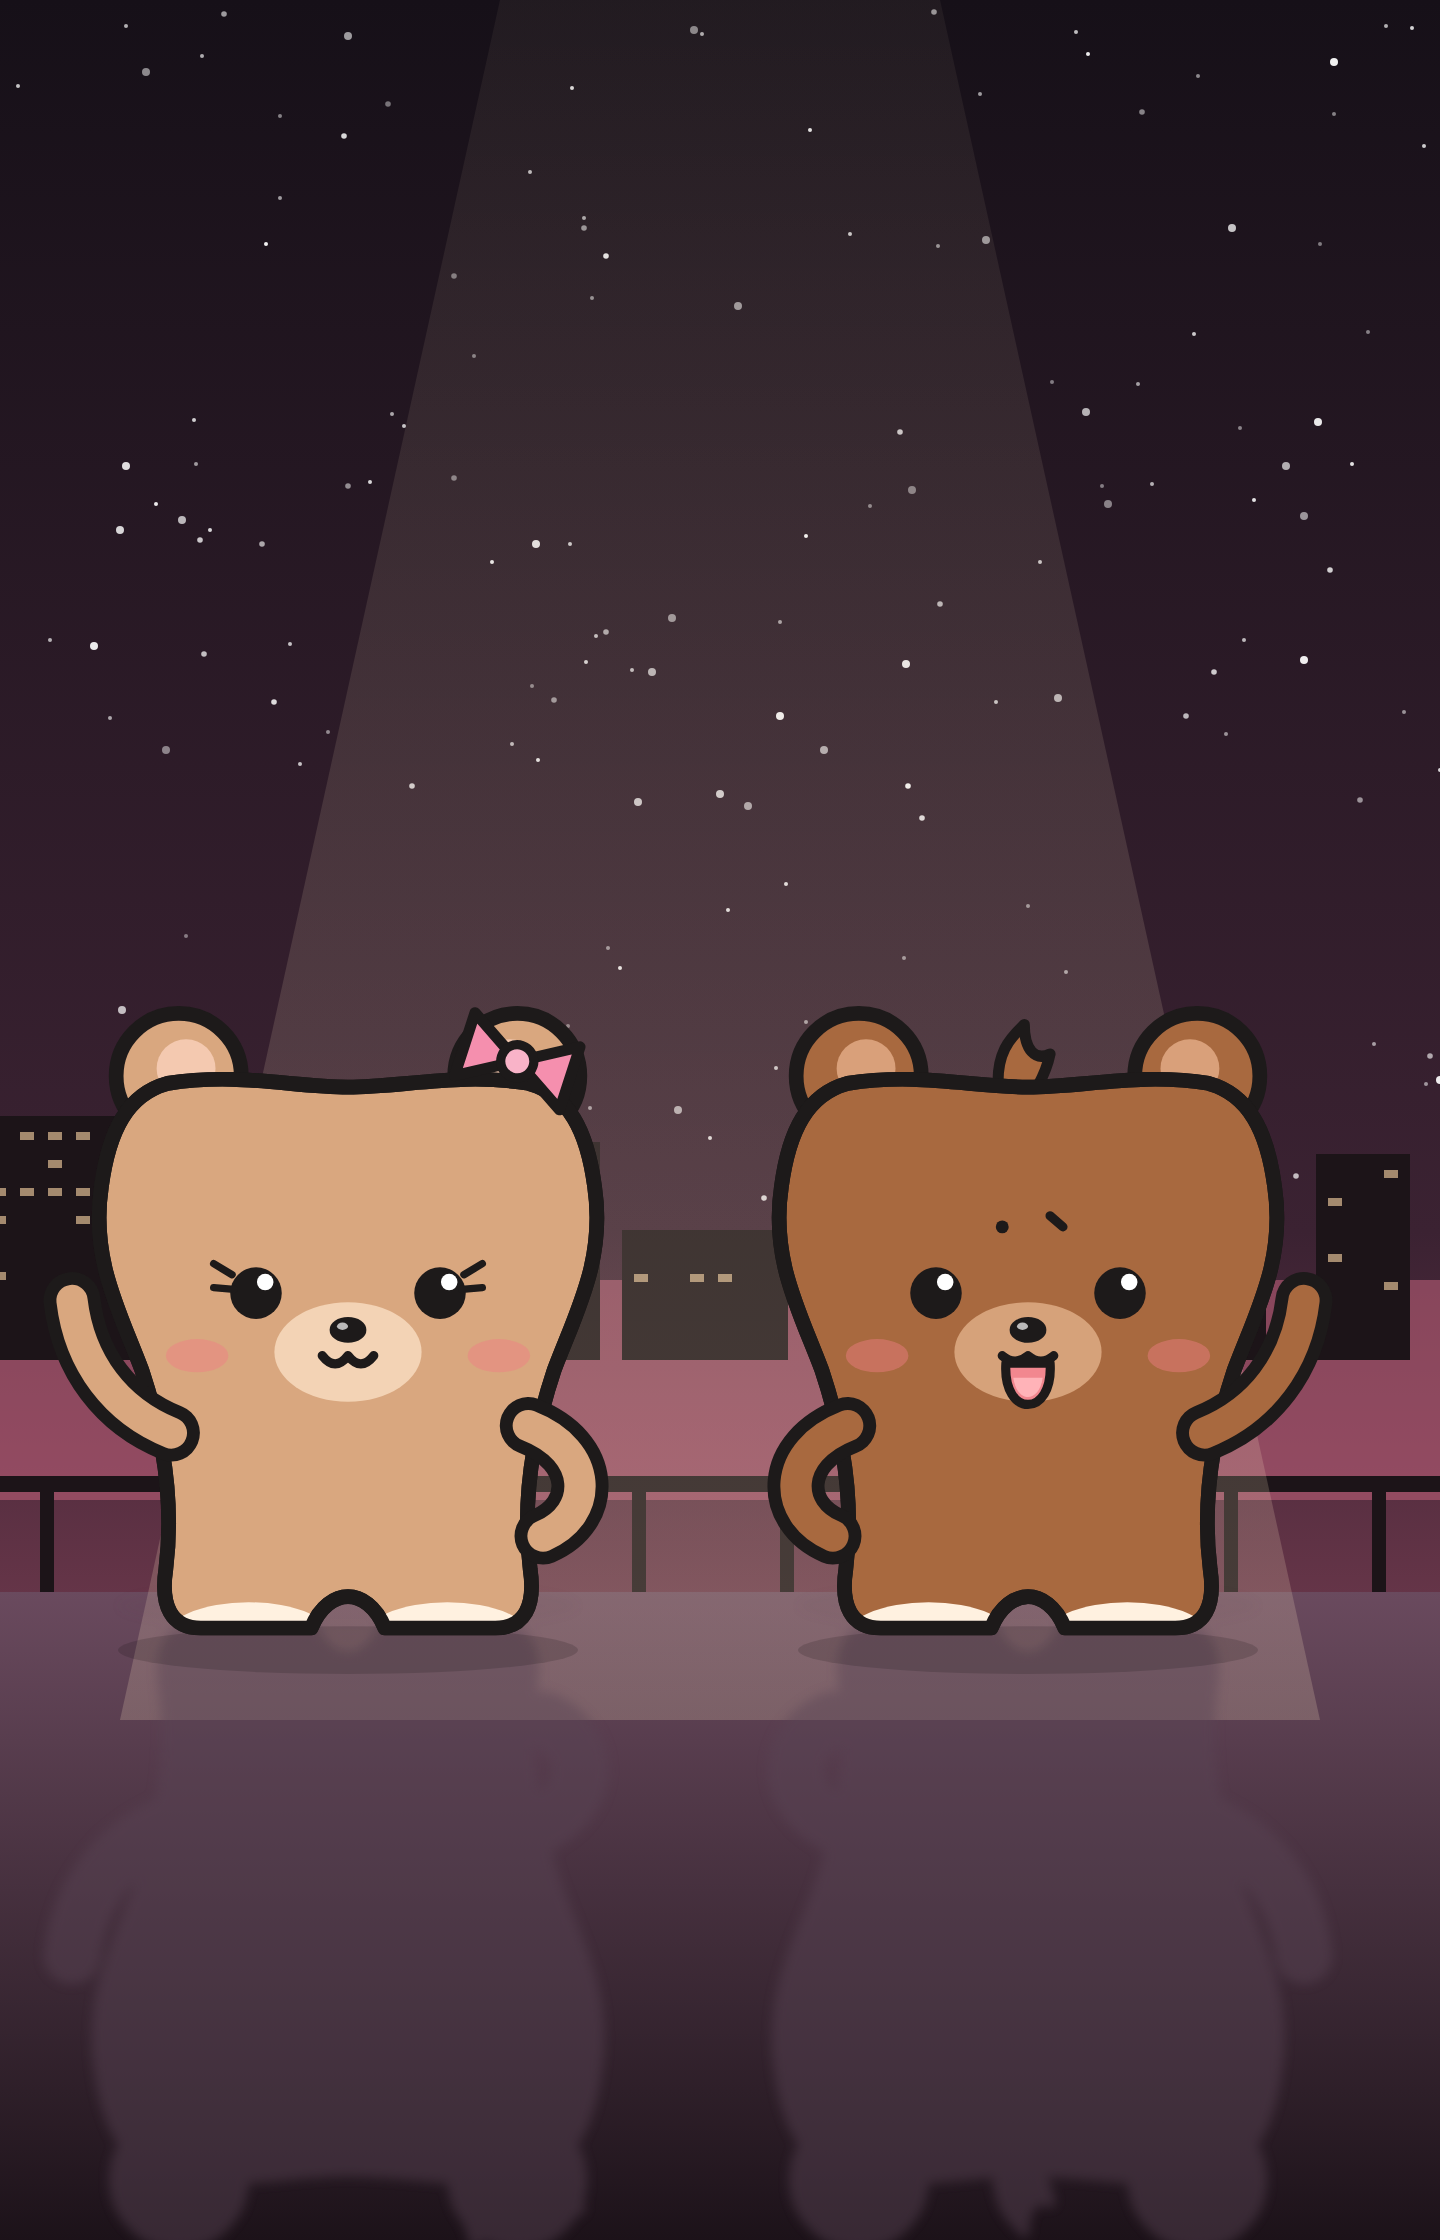
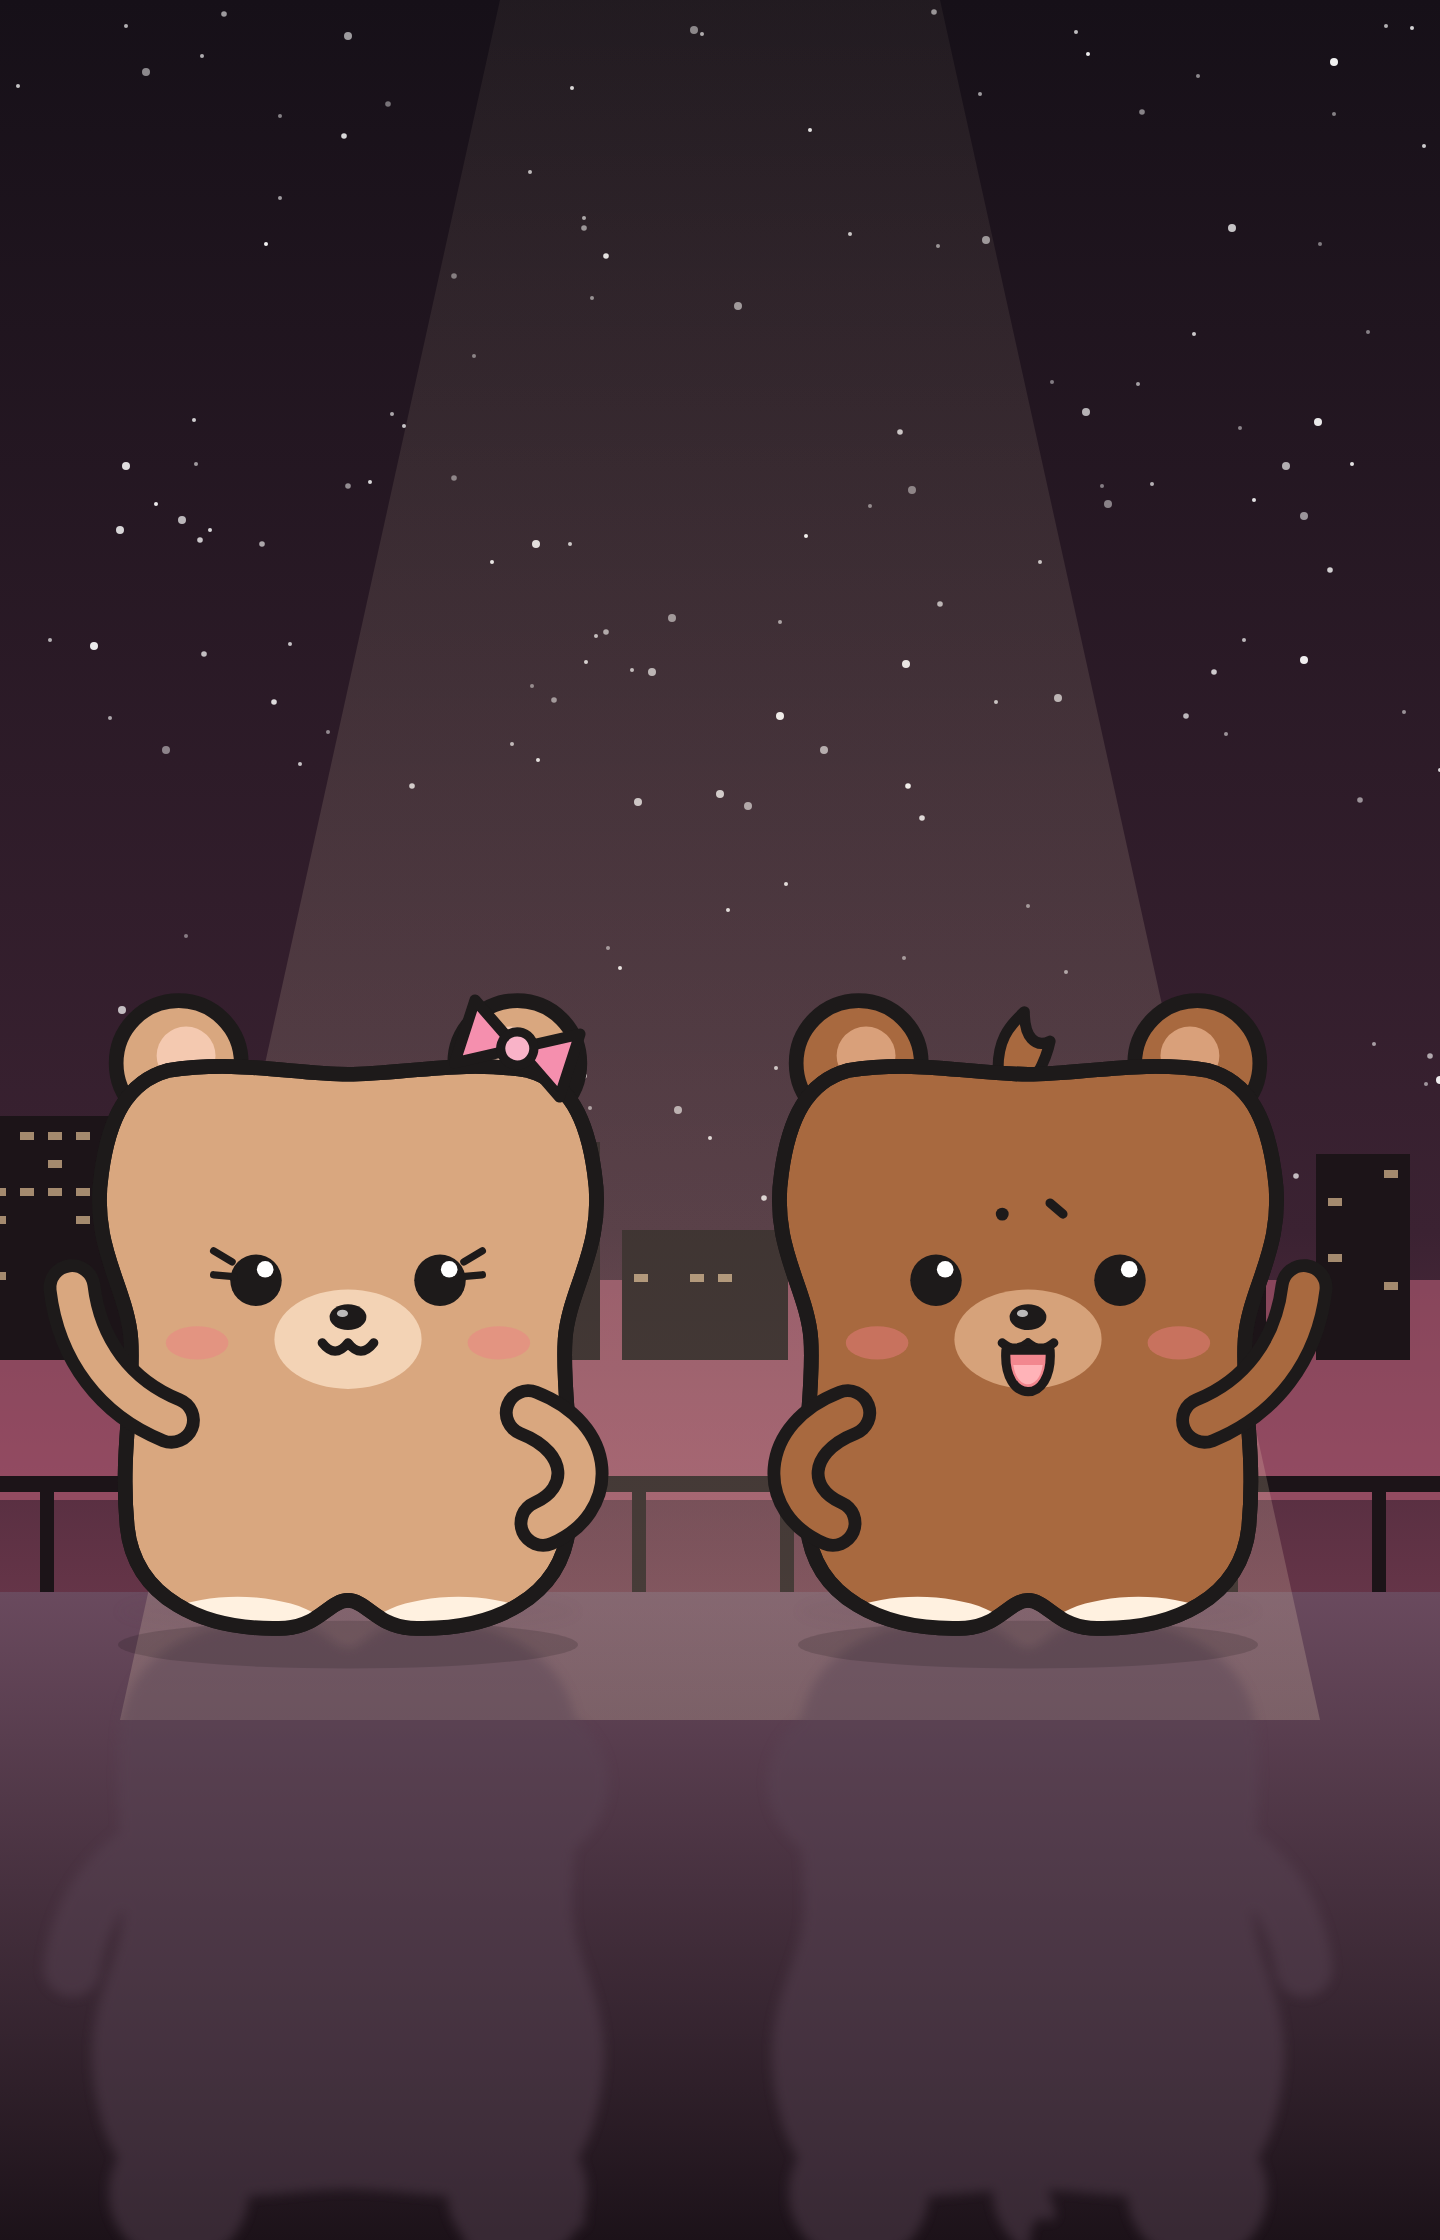
Round the bottom of the cat and bear bodies
Claude-Session: https://claude.ai/code/session_01WopMkcLvWqfaJwoxBBe3rR

diff --git a/characters/cat.py b/characters/cat.py
@@ -41,14 +41,12 @@ def noodle(d, fill, w=17):
 
 
 # One blob for head + body; ear tips at the top corners, two foot bumps at the bottom.
-BODY = ("M120,440 C104,440 98,428 101,408 C106,368 98,330 88,300 C76,268 62,240 68,206 "
+BODY = ("M200,432 C190,432 184,446 166,447 C120,449 84,430 80,392 C76,350 84,320 82,290 C80,262 62,240 68,206 "
         "C72,176 82,146 96,116 C114,138 130,154 152,160 C182,166 222,166 250,158 "
-        "C272,152 288,136 304,114 C318,146 328,176 332,206 C338,240 324,268 312,300 "
-        "C302,330 294,368 299,408 C302,428 296,440 280,440 "
-        "L220,440 C215,428 207,423 200,423 C193,423 185,428 180,440 Z")
+        "C272,152 288,136 304,114 C318,146 328,176 332,206 C338,240 320,262 318,290 C316,320 324,350 320,392 C316,430 280,449 234,447 C216,446 210,432 200,432 Z")
 
 layers = [
-    L("shadow", '<ellipse cx="200" cy="452" rx="125" ry="13" fill="#000" opacity=".14"/>'),
+    L("shadow", '<ellipse cx="200" cy="456" rx="125" ry="13" fill="#000" opacity=".14"/>'),
     L("tail", noodle("M292,410 C352,410 372,350 352,300 C342,276 360,258 376,270", FUR)
               + f'<path d="M352,300 C342,276 360,258 376,270" fill="none" stroke="{FUR_DK}" '
                 f'stroke-width="17" stroke-linecap="round"/>', (292, 405)),
@@ -60,8 +58,8 @@ layers = [
           f'<path d="M100,134 C108,150 122,160 140,164 C122,158 108,148 100,134 Z" fill="{EAR_IN}" stroke="{EAR_IN}" stroke-width="14" stroke-linejoin="round"/>'
           f'<path d="M300,132 C292,148 278,158 260,162 C278,156 292,146 300,132 Z" fill="{EAR_IN}" stroke="{EAR_IN}" stroke-width="14" stroke-linejoin="round"/>'
           # cream paw tips + belly hint
-          f'<ellipse cx="146" cy="446" rx="46" ry="20" fill="{PAW}"/>'
-          f'<ellipse cx="254" cy="446" rx="46" ry="20" fill="{PAW}"/>'
+          f'<ellipse cx="140" cy="452" rx="52" ry="22" fill="{PAW}"/>'
+          f'<ellipse cx="260" cy="452" rx="52" ry="22" fill="{PAW}"/>'
           f'</g>'
           f'<path d="{BODY}" fill="none" stroke="{INK}" stroke-width="8" stroke-linejoin="round"/>'
           f''),
@@ -145,7 +143,7 @@ scene = f'''{HEAD} viewBox="0 0 {W} {H}" width="{W}" height="{H}">
 {rail}
 <rect x="0" y="796" width="{W}" height="{H - 796}" fill="url(#floor)"/>
 <path d="M270,0 L450,0 L620,860 L100,860 Z" fill="url(#beam)"/>
-<g transform="translate(140,1298) scale(1.1,-1.1)" filter="url(#shade)" opacity=".45"><use href="#tofu"/></g>
+<g transform="translate(140,1313) scale(1.1,-1.1)" filter="url(#shade)" opacity=".45"><use href="#tofu"/></g>
 <g transform="translate(140,330) scale(1.1)"><use href="#tofu"/></g>
 </svg>
 '''

diff --git a/characters/bears.py b/characters/bears.py
@@ -37,10 +37,9 @@ def noodle(d, fill, w=17):
 
 
 # Head + body blob with flared top corners and two foot bumps.
-BODY = ("M120,440 C104,440 98,428 101,408 C106,368 98,330 88,300 C76,268 60,240 66,200 "
+BODY = ("M200,432 C190,432 184,446 166,447 C120,449 84,430 80,392 C76,350 84,320 82,290 C80,262 60,240 66,200 "
         "C70,170 80,150 102,144 C140,138 170,146 200,146 C230,146 262,138 298,144 "
-        "C320,150 330,170 334,200 C340,240 324,268 312,300 C302,330 294,368 299,408 "
-        "C302,428 296,440 280,440 L220,440 C215,428 207,423 200,423 C193,423 185,428 180,440 Z")
+        "C320,150 330,170 334,200 C340,240 320,262 318,290 C316,320 324,350 320,392 C316,430 280,449 234,447 C216,446 210,432 200,432 Z")
 
 ARMS = {
     "left-up": "M104,334 C74,322 54,296 50,262",
@@ -79,8 +78,8 @@ def bear(key, fur, ear_in, muzzle, female, wave_side):
         L("body-base",
           f'<path d="{BODY}" {o(fur)}/>'
           f'<g clip-path="url(#{key}-clip)">'
-          f'<ellipse cx="146" cy="446" rx="46" ry="20" fill="{PAW}"/>'
-          f'<ellipse cx="254" cy="446" rx="46" ry="20" fill="{PAW}"/></g>'
+          f'<ellipse cx="140" cy="452" rx="52" ry="22" fill="{PAW}"/>'
+          f'<ellipse cx="260" cy="452" rx="52" ry="22" fill="{PAW}"/></g>'
           f'<path d="{BODY}" fill="none" stroke="{INK}" stroke-width="8" stroke-linejoin="round"/>'),
         L("muzzle", f'<ellipse cx="200" cy="290" rx="40" ry="27" fill="{muzzle}"/>'),
     ]
@@ -98,7 +97,7 @@ def bear(key, fur, ear_in, muzzle, female, wave_side):
     ear = lambda cx, ix: (f'<circle cx="{cx}" cy="140" r="34" {o(fur)}/>'
                           f'<circle cx="{ix}" cy="136" r="16" fill="{ear_in}"/>')
     layers = [
-        L("shadow", '<ellipse cx="200" cy="452" rx="125" ry="13" fill="#000" opacity=".14"/>'),
+        L("shadow", '<ellipse cx="200" cy="456" rx="125" ry="13" fill="#000" opacity=".14"/>'),
         L("ear-left", ear(108, 112), (112, 160)),
         L("ear-right", ear(292, 288), (288, 160)),
     ]
@@ -151,7 +150,7 @@ rail = '<rect x="0" y="738" width="720" height="8" fill="#1c1418"/>'
 rail += "".join(f'<rect x="{x}" y="738" width="7" height="58" fill="#1c1418"/>' for x in range(20, 720, 74))
 
 S = 0.92
-TY = FLOOR - 440 * S
+TY = FLOOR - 447 * S
 placed, defs = "", ""
 for key, tx in (("honey", -10), ("cocoa", 330)):
     content, clip = built[key]
